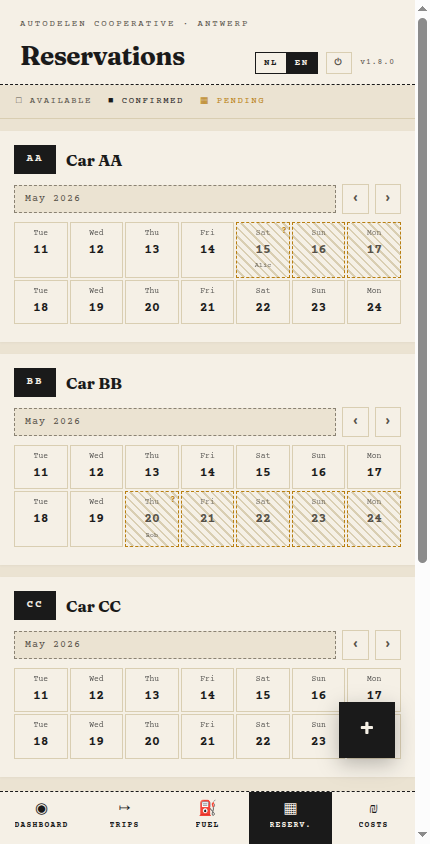
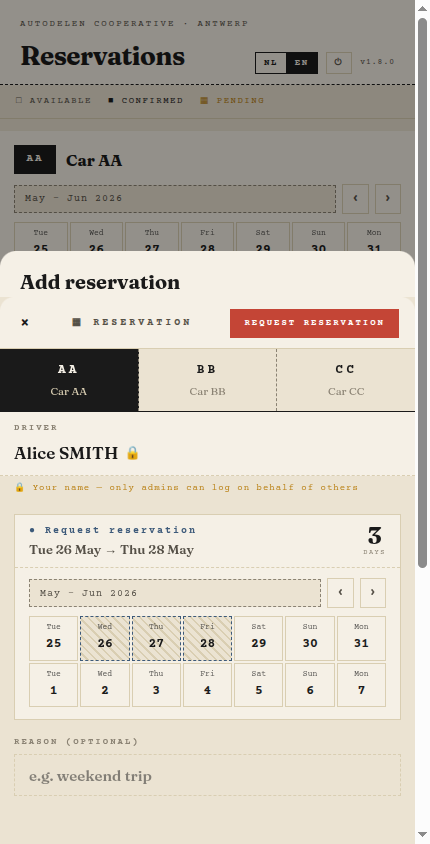
fix(screenshots): fix shots 26/27 — use grid cell clicks to pre-fill car + dates
Shot 26: advance first car's calendar 2 weeks then click 2 cells → form
opens with car and dates pre-filled (no conflict).
Shot 27: click cells overlapping Alice's AA reservation (May 15-17) →
form opens with car + dates and conflict warning visible.

Replaces broken [data-date] selector (attribute never existed in PickCalendar).

diff --git a/scripts/screenshot-docs.ts b/scripts/screenshot-docs.ts
@@ -587,39 +587,42 @@ async function main() {
   if (shouldRun(26)) {
     await page.goto(`${BASE_URL}/calendar`);
     await idle(page);
-    // Click on a day cell to start range selection, then click an end day
-    const dayCells26 = page.locator("[data-date]");
-    const count26 = await dayCells26.count();
-    if (count26 >= 3) {
-      await dayCells26.nth(2).click({ force: true });
-      await page.waitForTimeout(200);
-      await dayCells26.nth(4).click({ force: true });
+    // Advance first car's calendar 2 weeks (past seeded reservations ending May 25)
+    // PickCalendar week grids use div[style*="grid-template-columns"] — one div per week row
+    const nextBtn26 = page.locator("button").filter({ hasText: "›" }).first();
+    await nextBtn26.waitFor({ state: "visible", timeout: 5000 });
+    await nextBtn26.click();
+    await page.waitForTimeout(300);
+    await nextBtn26.click();
+    await page.waitForTimeout(300);
+    // First grid row is now the first week of car 1's advanced calendar (May 25+)
+    // Cell layout (Mon-start): cell 0=Mon, 1=Tue, 2=Wed, 3=Thu, 4=Fri, 5=Sat, 6=Sun
+    const firstRow26 = page.locator('div[style*="grid-template-columns"]').first();
+    const cells26 = firstRow26.locator("> div");
+    if ((await cells26.count()) >= 5) {
+      await cells26.nth(1).click({ force: true }); // Tue
+      await page.waitForTimeout(300);
+      await cells26.nth(3).click({ force: true }); // Thu — form opens with car + dates
+      await page.waitForURL(/[?&]action=add/, { timeout: 5000 });
       await page.waitForTimeout(600);
     }
     await shot(page, "member-26-reservation-form-calendar.png");
+    await page.goto(`${BASE_URL}/calendar`);
   }
 
   // ── 27. Reservation form showing conflict warning ─────────────────────────
   if (shouldRun(27)) {
-    // Open form via FAB, then select dates that overlap an existing reservation
     await page.goto(`${BASE_URL}/calendar`);
     await idle(page);
-    await openFab(page);
-    const reservationFabOption27 = page
-      .locator("button.animate-pop-in")
-      .filter({ hasText: /reservat/i })
-      .first();
-    if ((await reservationFabOption27.count()) > 0) {
-      await reservationFabOption27.click({ force: true });
-      await page.waitForTimeout(600);
-    }
-    // Select the first available days — demo data has reservations in the visible range
-    const dayCells27 = page.locator("[data-date]");
-    const count27 = await dayCells27.count();
-    if (count27 >= 2) {
-      await dayCells27.nth(0).click({ force: true });
-      await page.waitForTimeout(200);
-      await dayCells27.nth(1).click({ force: true });
+    // Click cells overlapping Alice's pending reservation on Car AA (May 15-17)
+    // Week 1: Mon May 11=cell 0, ..., Fri May 15=cell 4, Sun May 17=cell 6
+    const firstRow27 = page.locator('div[style*="grid-template-columns"]').first();
+    const cells27 = firstRow27.locator("> div");
+    if ((await cells27.count()) >= 7) {
+      await cells27.nth(4).click({ force: true }); // May 15 = start
+      await page.waitForTimeout(300);
+      await cells27.nth(6).click({ force: true }); // May 17 = end → conflict shown
+      await page.waitForURL(/[?&]action=add/, { timeout: 5000 });
       await page.waitForTimeout(600);
     }
     await shot(page, "member-27-reservation-conflict.png");
